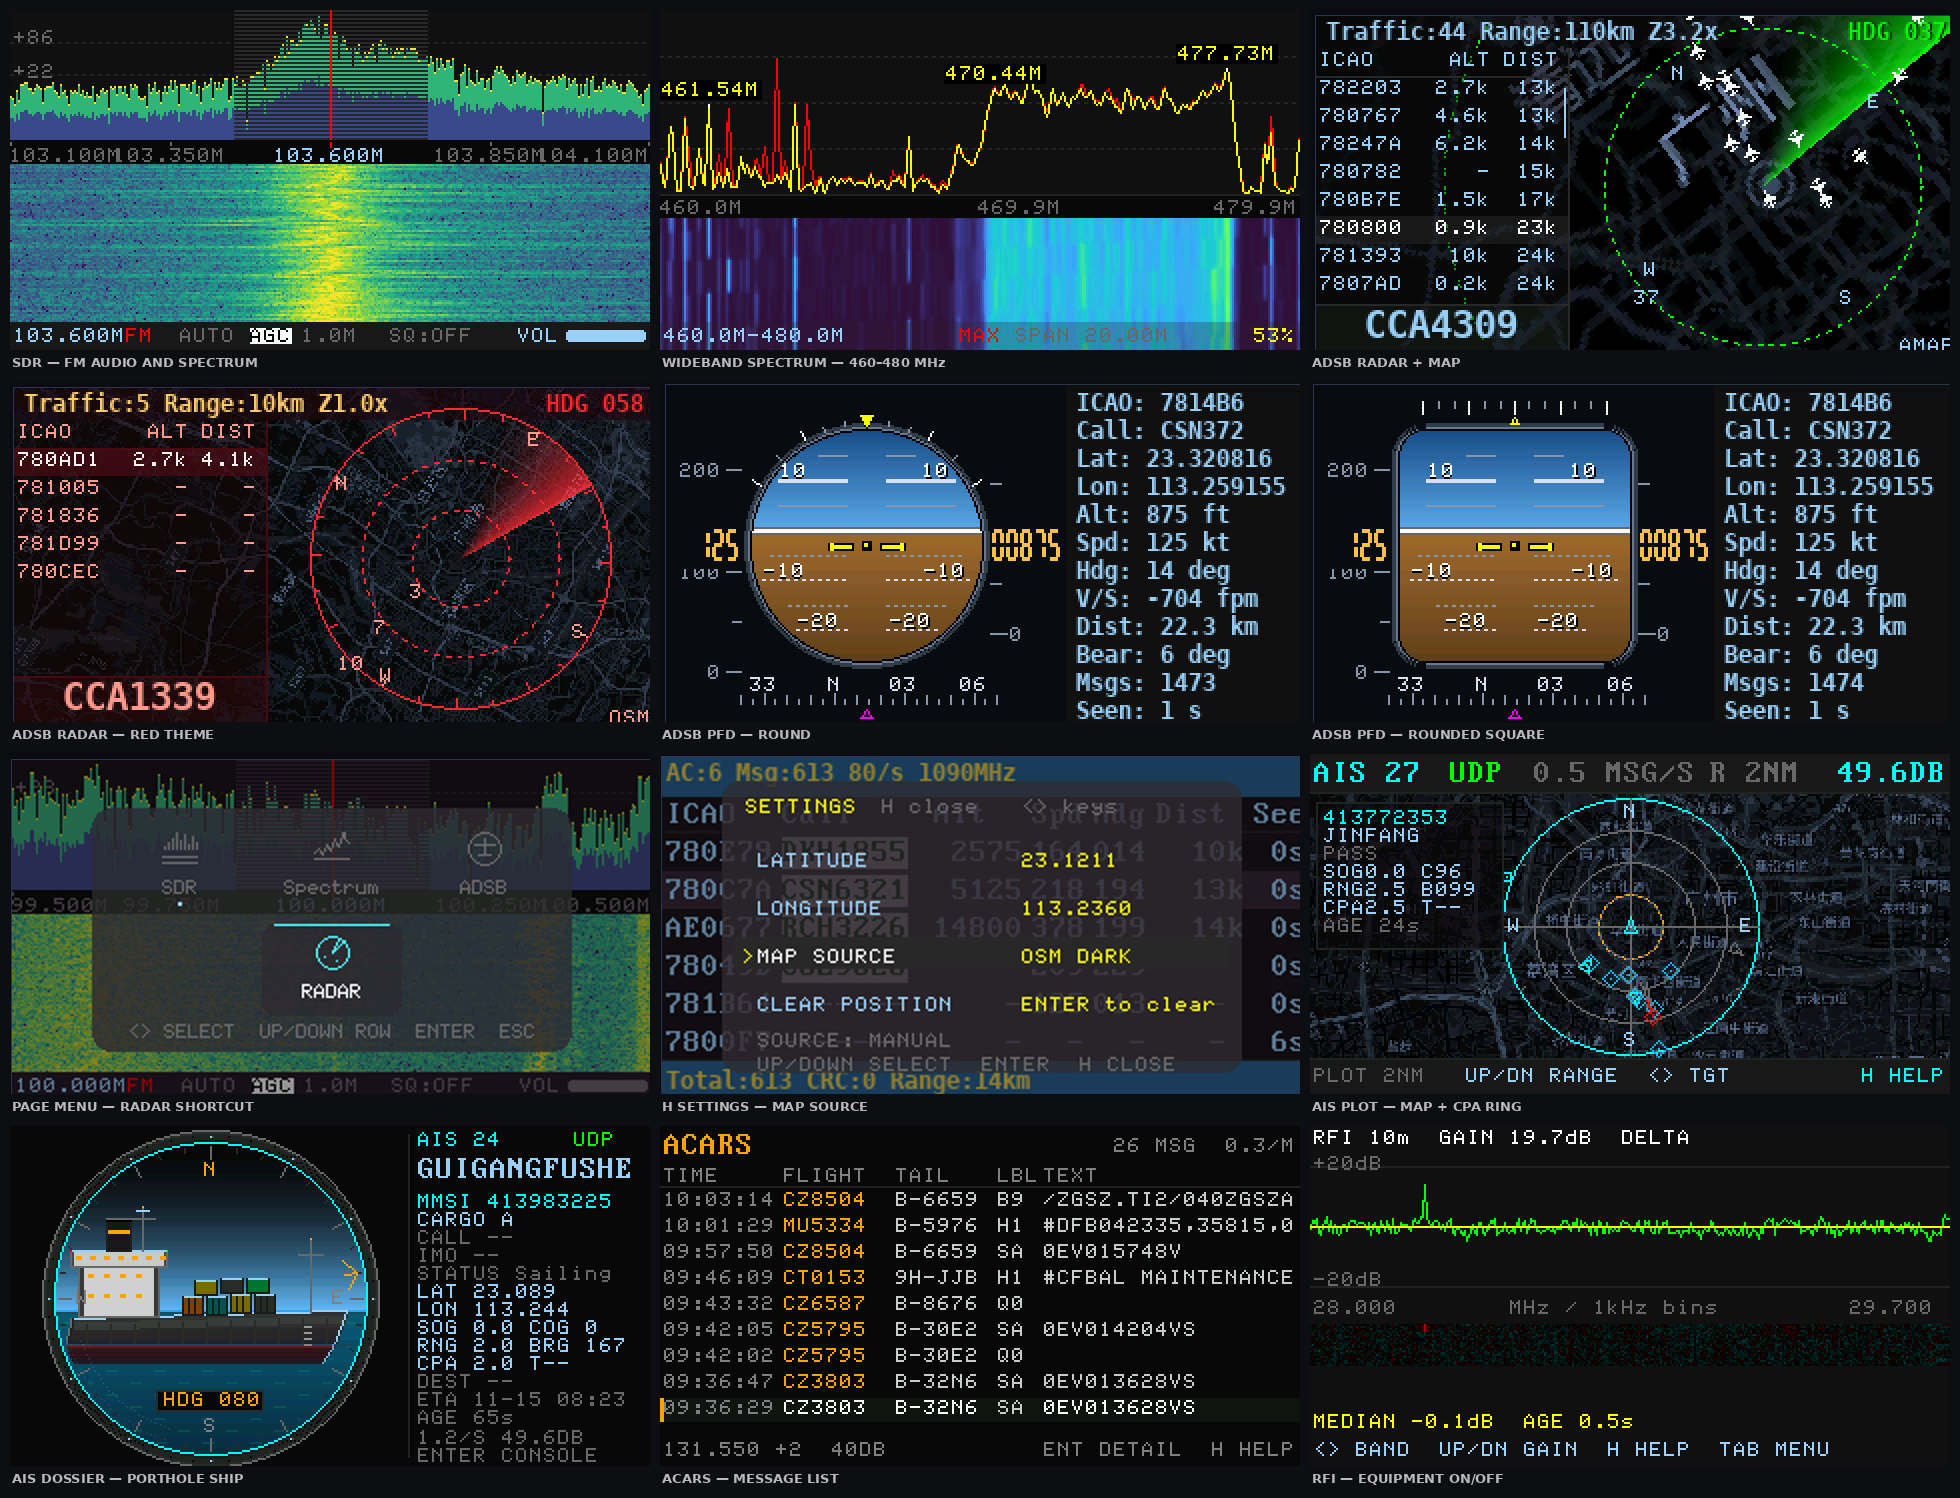
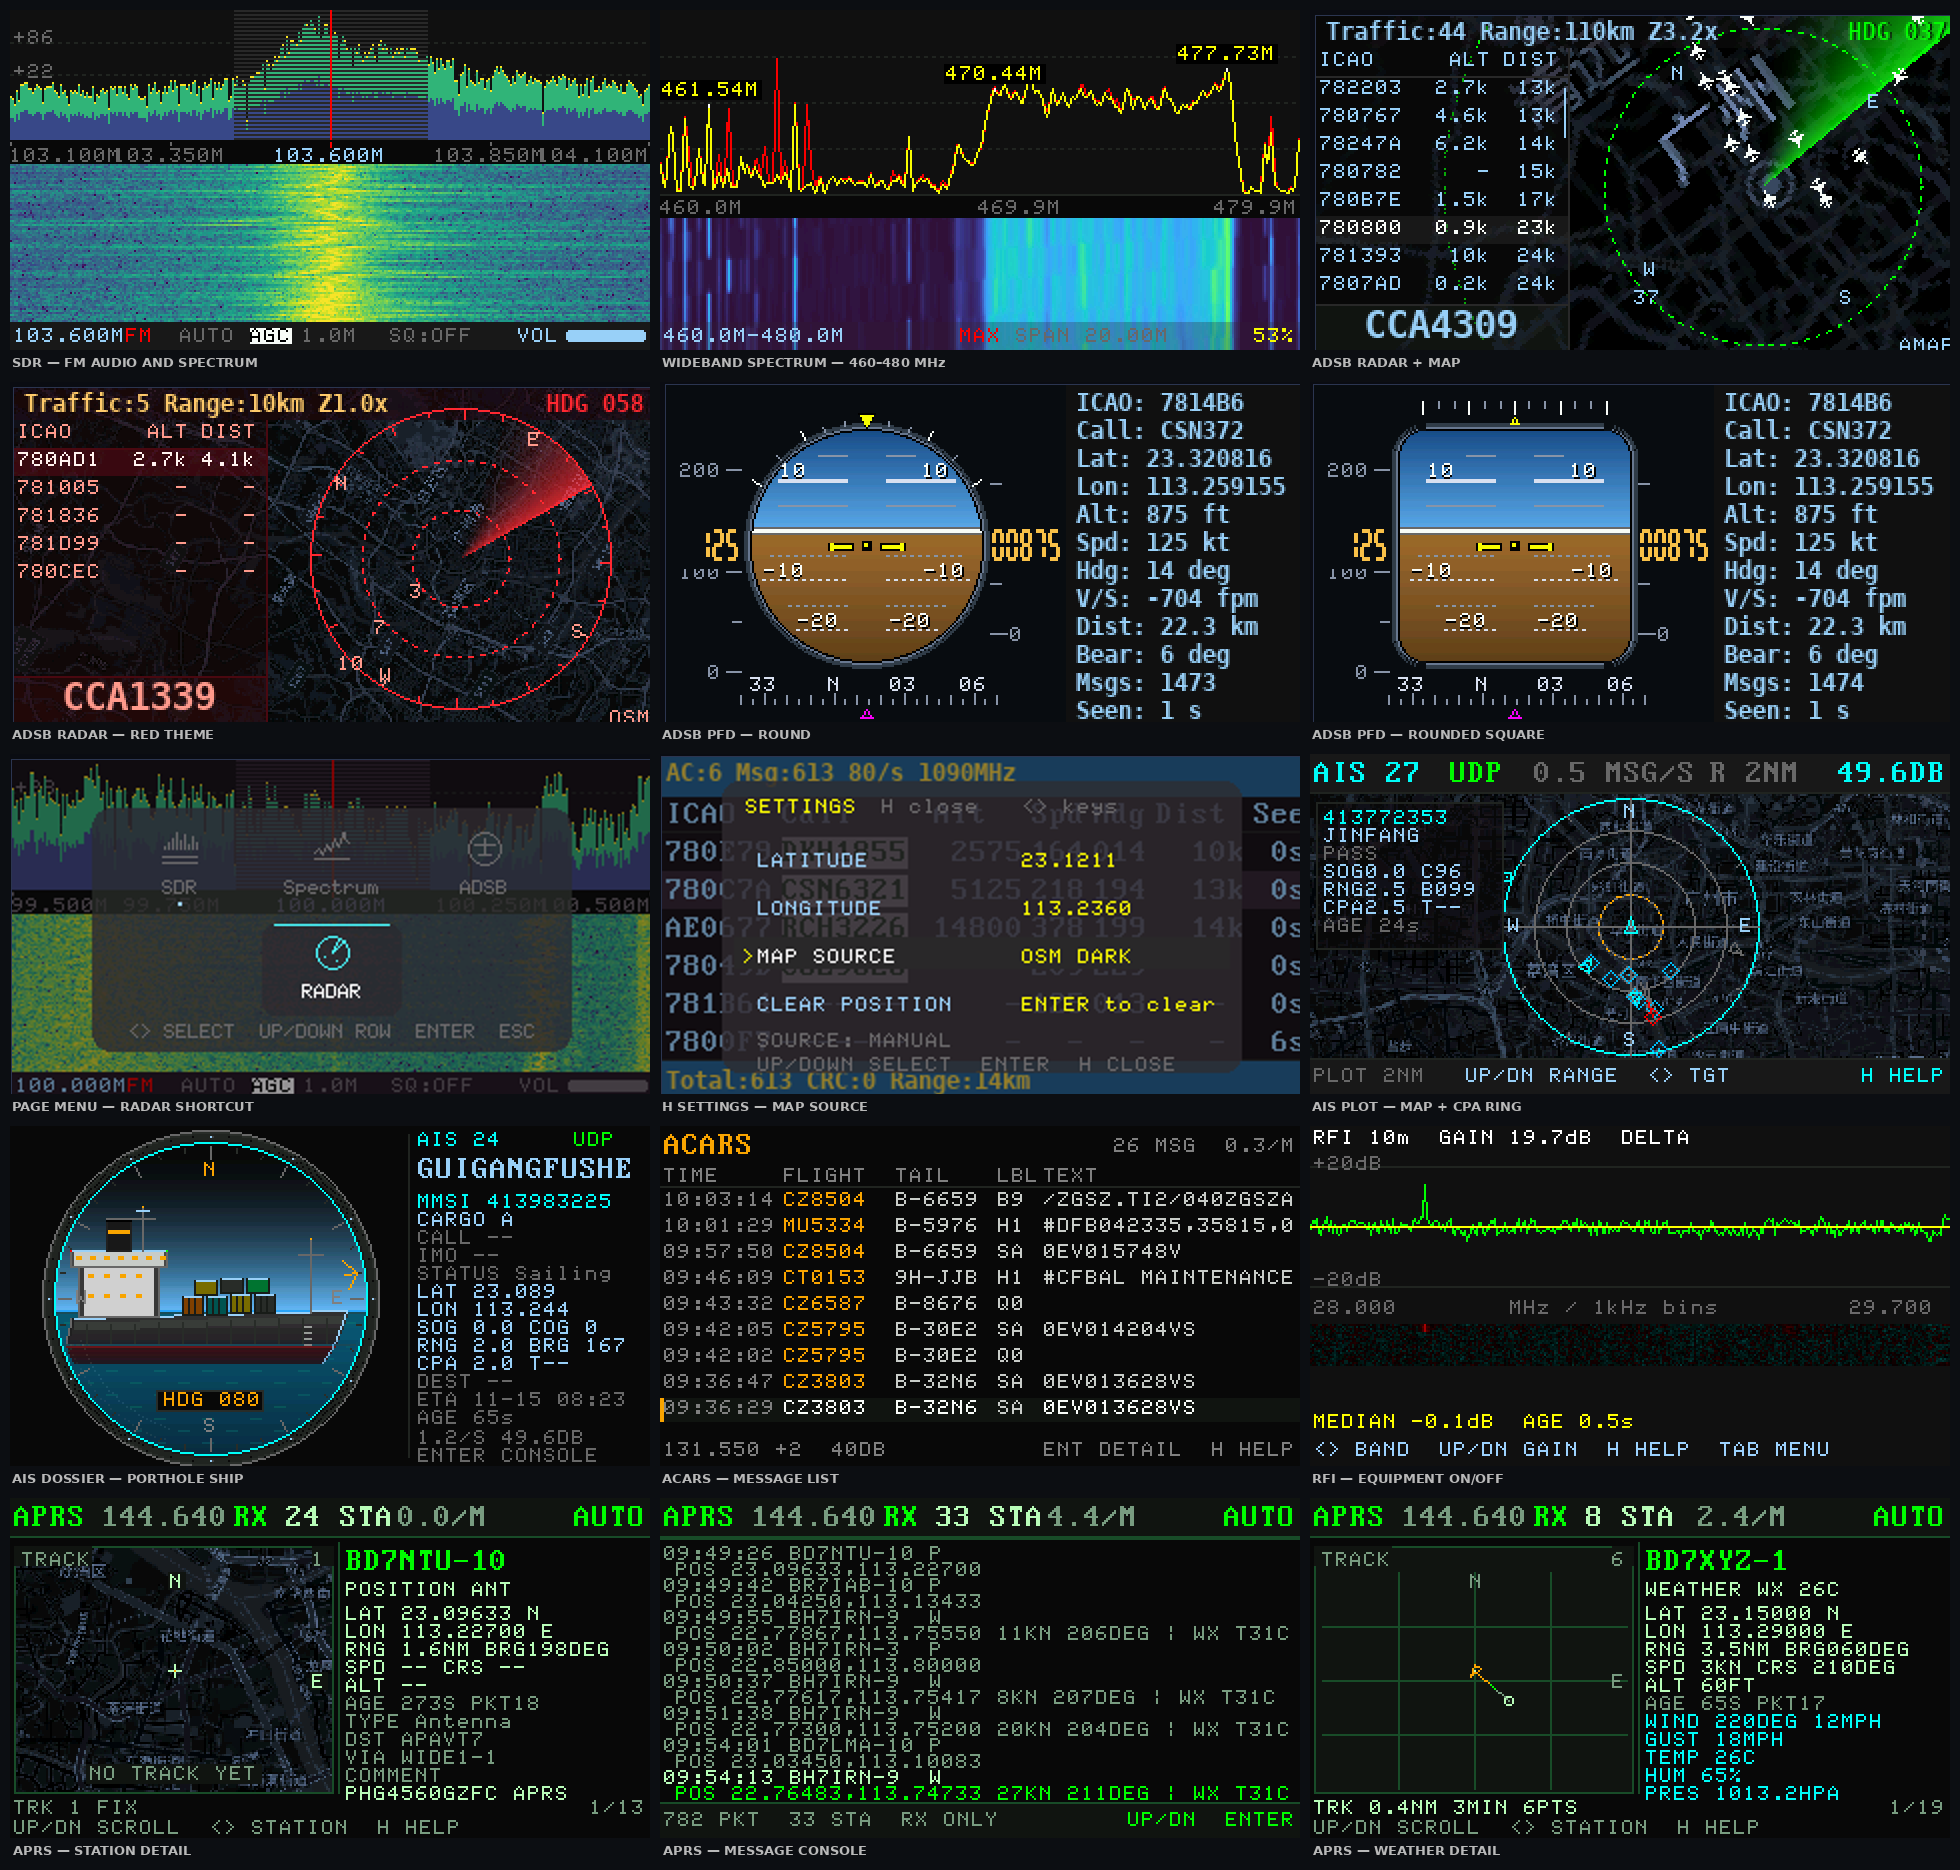
Add APRS screenshots to the README showcase

diff --git a/README.zh-CN.md b/README.zh-CN.md
@@ -13,7 +13,7 @@ ADSB、AIS、ACARS、APRS 与 RFI 页面。
 ![ZeroSDR 页面](images/showcase.png)
 
 *SDR 与宽带频谱、ADSB 雷达 / PFD / 设置、AIS 地图与船舶档案、
-ACARS 报文、APRS 站点与 RFI 对比。*
+ACARS 报文、APRS 站点详情 / 控制台 / 天气与 RFI 对比。*
 
 > **在 SDR 页面按 `H` 可以随时显示屏幕按键列表。**
 > 在帮助浮层里按 `→` 切到设置页（FM 去加重、音频 AGC、FFT 大小、采样率），

diff --git a/README.md b/README.md
@@ -15,7 +15,7 @@ page.
 ![ZeroSDR pages](images/showcase.png)
 
 *SDR and wideband spectrum, ADSB radar / PFD / settings, AIS plot and
-dossier, ACARS messages, APRS stations and the RFI survey.*
+dossier, ACARS messages, APRS detail / console / weather and the RFI survey.*
 
 > **Press `H` on the SDR page to show the on-screen key list.**
 > Press `→` there to switch to the settings tab (FM de-emphasis, audio AGC,
